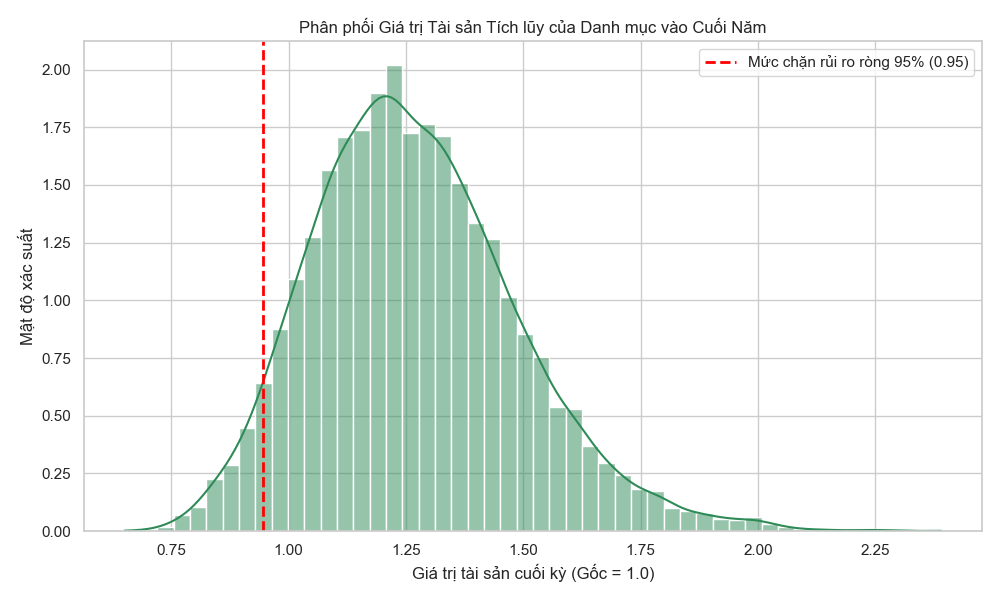
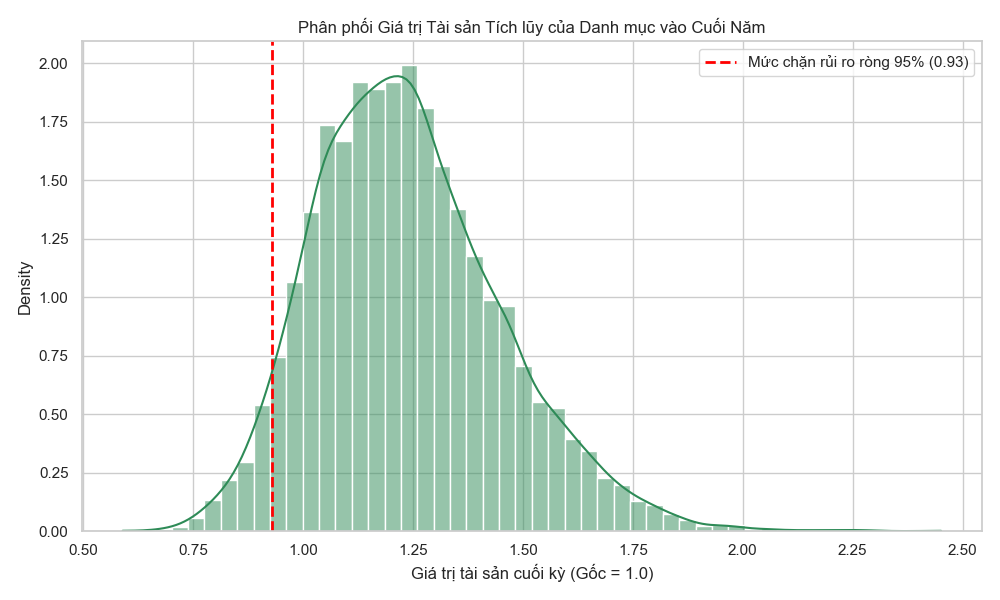
6h52

diff --git a/appendix.tex b/appendix.tex
@@ -283,48 +283,45 @@ if cvar_opt_result.success:
 \end{lstlisting}
 % =======================================================================
 \subsection*{A.6 Mô phỏng Monte Carlo dự báo trong dài hạn (1 năm)}
-Quá trình tạo các quỹ đạo tài sản (Asset Paths) trong chu kỳ 252 ngày giao dịch để ước tính hiệu suất và rủi ro ròng vào cuối năm.
+Quá trình tạo các quỹ đạo tài sản (Asset Paths) trong chu kỳ 252 ngày giao dịch để ước tính hiệu suất và rủi ro ròng vào cuối năm. Lập trình đảm bảo sử dụng hàm t-Student Copula và bộ tỷ trọng tối ưu CVaR.
 
 \begin{lstlisting}[language=Python]
 print("\n--- Monte Carlo Simulation Deployment (1 Year / 252 Days) ---")
-num_simulations = 10000
 num_days = 252
-
-mean_vector = np.zeros(num_assets)
 portfolio_paths = np.ones((num_days + 1, num_simulations))
+np.random.seed(100)
 
-np.random.seed(42)
 for day in range(num_days):
-    sim_normal = np.random.multivariate_normal(mean_vector, spearman_corr.values, size=num_simulations)
-    u_sim = norm.cdf(sim_normal)
+    Z_day = np.random.multivariate_normal(mean_vector, pearson_approx_psd, size=num_simulations)
+    W_day = df_t / np.random.chisquare(df=df_t, size=num_simulations)
+    X_day = np.sqrt(W_day)[:, None] * Z_day
+    u_day = t_dist.cdf(X_day, df=df_t)
     
     day_returns = np.zeros((num_simulations, num_assets))
     for i, ticker in enumerate(tickers):
-        day_returns[:, i] = np.quantile(returns[ticker].values, u_sim[:, i])
+        day_returns[:, i] = np.quantile(returns[ticker].values, u_day[:, i])
         
-    portfolio_sim_returns = np.dot(day_returns, best_weights)
-    portfolio_paths[day + 1, :] = portfolio_paths[day, :] * (1 + portfolio_sim_returns)
+    # Dung bo ty trong toi uu Copula-CVaR de du bao
+    portfolio_sim_returns_day = np.dot(day_returns, best_cvar_weights)
+    
+    # Cong don tai san bang ham mu (Log Returns)
+    portfolio_paths[day + 1, :] = portfolio_paths[day, :] * np.exp(portfolio_sim_returns_day)
 
-# Asset Path Random Walk Plot
+final_assets = portfolio_paths[-1, :]
+var_95_yearly = np.quantile(final_assets, 0.05)
+median_yearly = np.median(final_assets)
+
 plt.figure()
 plt.plot(portfolio_paths[:, :100], color='blue', alpha=0.08)
 plt.axhline(1.0, color='red', linestyle='--', linewidth=1.5)
 plt.title("Monte Carlo Simulation Asset Path Scenarios (1 Year)")
-plt.tight_layout()
-plt.savefig('monte_carlo_paths.png')
+plt.savefig('monte_carlo_paths_1year.png')
 plt.show()
-
-# Year-End Asset Value Distribution Plot
-final_assets = portfolio_paths[-1, :]
-var_95_yearly = np.quantile(final_assets, 0.05)
 
 plt.figure()
-sns.histplot(final_assets.flatten(), bins=50, kde=True, color='seagreen', stat='density')
+sns.histplot(final_assets, bins=50, kde=True, color='seagreen', stat='density')
 plt.axvline(var_95_yearly, color='red', linestyle='--', linewidth=2)
 plt.title("Distribution of Cumulative Portfolio Asset Value at Year-End")
-plt.tight_layout()
 plt.savefig('final_asset_distribution.png')
 plt.show()
-
-print("Process completed! Images saved to directory.")
 \end{lstlisting}

diff --git a/5.6.tex b/5.6.tex
@@ -2,7 +2,7 @@
 
 \begin{figure}[H]
     \centering
-    \includegraphics[width=0.9\textwidth]{monte_carlo_paths.png}
+    \includegraphics[width=0.9\textwidth]{monte_carlo_paths_1year.png}
     \caption{Mô phỏng Monte Carlo 10.000 kịch bản quỹ đạo tài sản tích lũy trong 1 năm}
     \label{fig:mc_paths}
 \end{figure}
@@ -19,8 +19,8 @@ Hình \ref{fig:mc_paths} minh họa quá trình tiến hóa của giá trị dan
 \begin{flushleft}
 \textbf{Nhận xét kết quả kiểm chứng:}
 \begin{itemize}
-    \item Khả năng sinh lời: Giá trị tài sản trung vị cuối năm đạt 1.25, đồng nghĩa với việc nhà đầu tư có thể kỳ vọng mức tăng trưởng tài sản xấp xỉ 25\% sau 1 năm nắm giữ danh mục tối ưu này.
-    \item Năng lực phòng thủ rủi ro: Chỉ số rủi ro ròng tại phân vị 5\% cho thấy giá trị tài sản chặn dưới là 0.95. Điều này có ý nghĩa kinh tế rất lớn: Nếu đầu tư 1 đồng, ngay cả khi thị trường rơi vào kịch bản xấu (thuộc nhóm 5\% tồi tệ nhất), nhà đầu tư vẫn bảo toàn được ít nhất 0.95 đồng (chỉ lỗ tối đa khoảng 5\% vốn gốc trong 1 năm). 
+    \item Khả năng sinh lời: Giá trị tài sản trung vị cuối năm đạt $1.2191$, đồng nghĩa với việc nhà đầu tư có thể kỳ vọng mức tăng trưởng tài sản xấp xỉ $21.91\%$ sau $1$ năm nắm giữ danh mục tối ưu này.
+    \item Năng lực phòng thủ rủi ro: Chỉ số rủi ro ròng tại phân vị $5\%$ cho thấy giá trị tài sản chặn dưới là $0.9421$. Điều này có ý nghĩa kinh tế rất lớn: Nếu đầu tư $1$ đồng, ngay cả khi thị trường rơi vào kịch bản xấu (thuộc nhóm $5\%$ tồi tệ nhất với sự cộng hưởng rủi ro của Copula), danh mục vẫn giúp nhà đầu tư bảo toàn được ít nhất $0.9421$ đồng (chỉ lỗ tối đa khoảng $5.79\%$ vốn gốc trong $1$ năm).
 \end{itemize}
 Kết quả này một lần nữa khẳng định sức mạnh của việc kết hợp mô hình Copula và tiêu chuẩn tối ưu hóa CVaR: danh mục không chỉ khai thác được mức tăng trưởng mạnh mẽ của nhóm cổ phiếu công nghệ mà còn thiết lập được một cơ chế phòng vệ vững chắc chống lại rủi ro hệ thống.
 \end{flushleft}